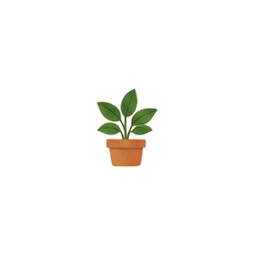
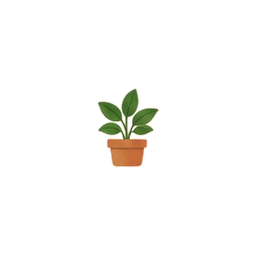
Add files via upload

diff --git a/index.html b/index.html
@@ -11,10 +11,10 @@
 <meta name="apple-mobile-web-app-status-bar-style" content="default">
 <meta name="apple-mobile-web-app-title" content="PlantGroove">
 <title>PlantGroove</title>
-<link rel="manifest" href="manifest.webmanifest?v=3">
-<link rel="apple-touch-icon" href="icon-192.png?v=3">
+<link rel="manifest" href="manifest.webmanifest?v=4">
+<link rel="apple-touch-icon" href="icon-192.png?v=4">
 
-<link rel="stylesheet" href="style.css?v=3">
+<link rel="stylesheet" href="style.css?v=4">
 </head>
 <body>
 <div class="app-shell">
@@ -44,16 +44,16 @@
     <path d="M387 239 l3 8 8 3-8 3-3 8-3-8-8-3 8-3z"/>
   </g>
 </svg>
-    <img class="home-plant-png" src="home-hero-plant.png?v=3" alt="" aria-hidden="true">
+    <img class="home-plant-png" src="home-hero-plant.png?v=4" alt="" aria-hidden="true">
     <div class="sparkles">✦ ✦</div>
     <h2>Track your plants over time</h2>
     <p>Log photos, jot down notes, and celebrate every bit of growth and progress.</p>
   </div>
 
   <div class="stats">
-    <div class="stat"><div class="stat-icon"><img src="stat-plants.png?v=3" alt=""></div><strong id="statPlants">0</strong><span>Plants</span></div>
-    <div class="stat"><div class="stat-icon"><img src="stat-props.png?v=3" alt=""></div><strong id="statProps">0</strong><span>Props</span></div>
-    <div class="stat"><div class="stat-icon"><img src="stat-rooted.png?v=3" alt=""></div><strong id="statRooted">0</strong><span>Rooted</span></div>
+    <div class="stat"><div class="stat-icon"><img src="stat-plants.png?v=4" alt=""></div><strong id="statPlants">0</strong><span>Plants</span></div>
+    <div class="stat"><div class="stat-icon"><img src="stat-props.png?v=4" alt=""></div><strong id="statProps">0</strong><span>Props</span></div>
+    <div class="stat"><div class="stat-icon"><img src="stat-rooted.png?v=4" alt=""></div><strong id="statRooted">0</strong><span>Rooted</span></div>
   </div>
 
   <div class="section-head"><h3>Recently growing</h3><button class="text-btn" data-go="plantsView">See all ›</button></div>
@@ -489,11 +489,11 @@
 </main>
 
 <nav class="bottom-nav">
-  <button class="nav-item active" data-view="homeView"><span class="nav-icon"><img src="nav-home.png?v=3" alt=""></span><span class="nav-label">Home</span></button>
-  <button class="nav-item" data-view="plantsView"><span class="nav-icon"><img src="nav-plants.png?v=3" alt=""></span><span class="nav-label">Plants</span></button>
-  <button class="nav-item" data-view="propsView"><span class="nav-icon"><img src="nav-props.png?v=3" alt=""></span><span class="nav-label">Props</span></button>
-  <button class="nav-item" data-view="tcView"><span class="nav-icon"><img src="nav-tc.png?v=3" alt=""></span><span class="nav-label">TC</span></button>
-  <button class="nav-item" data-view="growthView"><span class="nav-icon"><img src="nav-growth.png?v=3" alt=""></span><span class="nav-label">Growth</span></button>
+  <button class="nav-item active" data-view="homeView"><span class="nav-icon"><img src="nav-home.png?v=4" alt=""></span><span class="nav-label">Home</span></button>
+  <button class="nav-item" data-view="plantsView"><span class="nav-icon"><img src="nav-plants.png?v=4" alt=""></span><span class="nav-label">Plants</span></button>
+  <button class="nav-item" data-view="propsView"><span class="nav-icon"><img src="nav-props.png?v=4" alt=""></span><span class="nav-label">Props</span></button>
+  <button class="nav-item" data-view="tcView"><span class="nav-icon"><img src="nav-tc.png?v=4" alt=""></span><span class="nav-label">TC</span></button>
+  <button class="nav-item" data-view="growthView"><span class="nav-icon"><img src="nav-growth.png?v=4" alt=""></span><span class="nav-label">Growth</span></button>
 </nav>
 
 <dialog id="plantDialog" class="sheet">
@@ -583,7 +583,7 @@
 </form>
 </dialog>
 
-<script src="app.js?v=3"></script>
+<script src="app.js?v=4"></script>
 </div>
 </body>
 </html>

diff --git a/style.css b/style.css
@@ -819,3 +819,46 @@ input,select,textarea{width:100%;margin-top:6px;padding:12px;border-radius:12px;
   .bottom-nav .nav-icon img{width:35px !important;height:35px !important}
   .home-plant-png{right:-2px !important;bottom:26px !important;width:158px !important}
 }
+
+/* v4: larger icon artwork + clean hero cutout */
+.stat-icon{
+  width:82px !important;
+  height:82px !important;
+  margin:0 auto 6px !important;
+}
+.stat-icon img{
+  width:78px !important;
+  height:78px !important;
+  object-fit:contain !important;
+}
+.bottom-nav .nav-icon{
+  width:62px !important;
+  height:62px !important;
+  border-radius:31px !important;
+}
+.bottom-nav .nav-icon img{
+  width:50px !important;
+  height:50px !important;
+  object-fit:contain !important;
+}
+.home-plant-png{
+  width:190px !important;
+  right:-4px !important;
+  bottom:18px !important;
+  filter:none !important;
+  box-shadow:none !important;
+}
+@media(max-width:520px){
+  .stat-icon{width:76px !important;height:76px !important}
+  .stat-icon img{width:72px !important;height:72px !important}
+  .bottom-nav .nav-icon{width:58px !important;height:58px !important}
+  .bottom-nav .nav-icon img{width:46px !important;height:46px !important}
+  .home-plant-png{width:176px !important;right:-4px !important;bottom:20px !important}
+}
+@media(max-width:390px){
+  .stat-icon{width:72px !important;height:72px !important}
+  .stat-icon img{width:68px !important;height:68px !important}
+  .bottom-nav .nav-icon{width:54px !important;height:54px !important}
+  .bottom-nav .nav-icon img{width:42px !important;height:42px !important}
+  .home-plant-png{width:164px !important;right:-4px !important;bottom:22px !important}
+}
